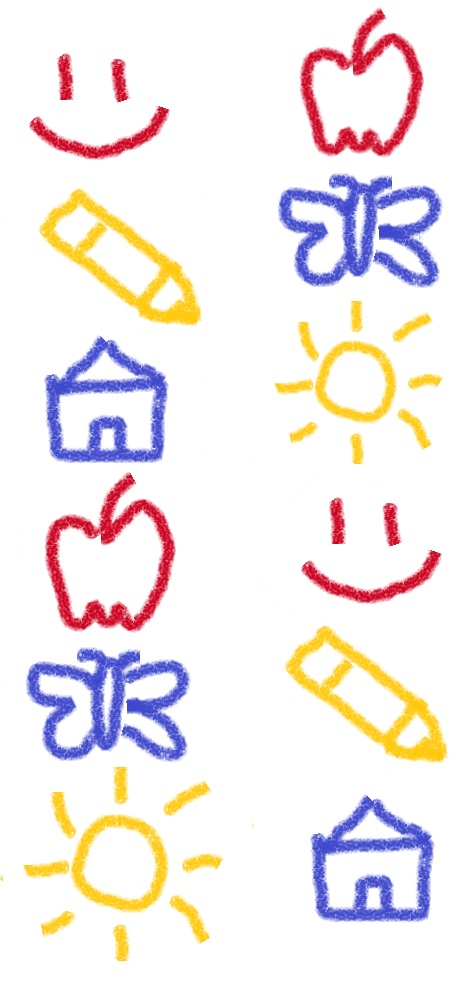
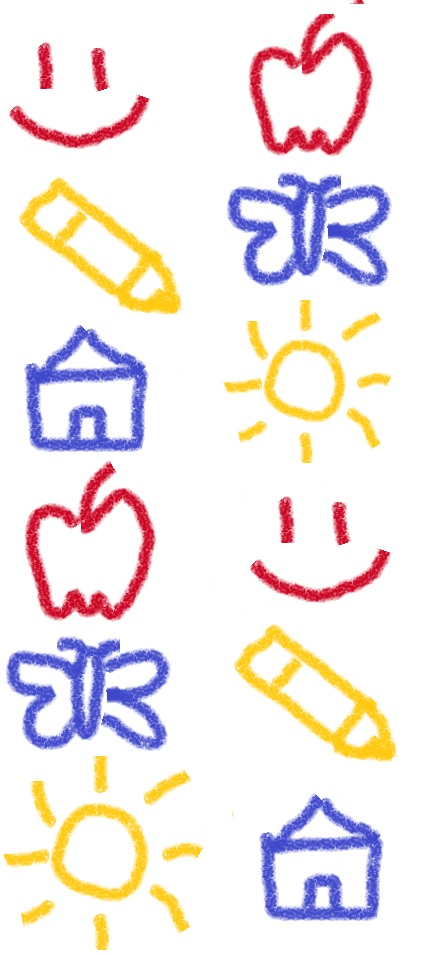
Added new image to margins.

diff --git a/src/components/Body.css b/src/components/Body.css
@@ -1,5 +1,5 @@
 .body-container {
-  background-image: url("../assets/Margin-Pattern.jpg");
+  background-image: url("../assets/Margin-Pattern-New.jpg");
 }
 
 .body-content {
